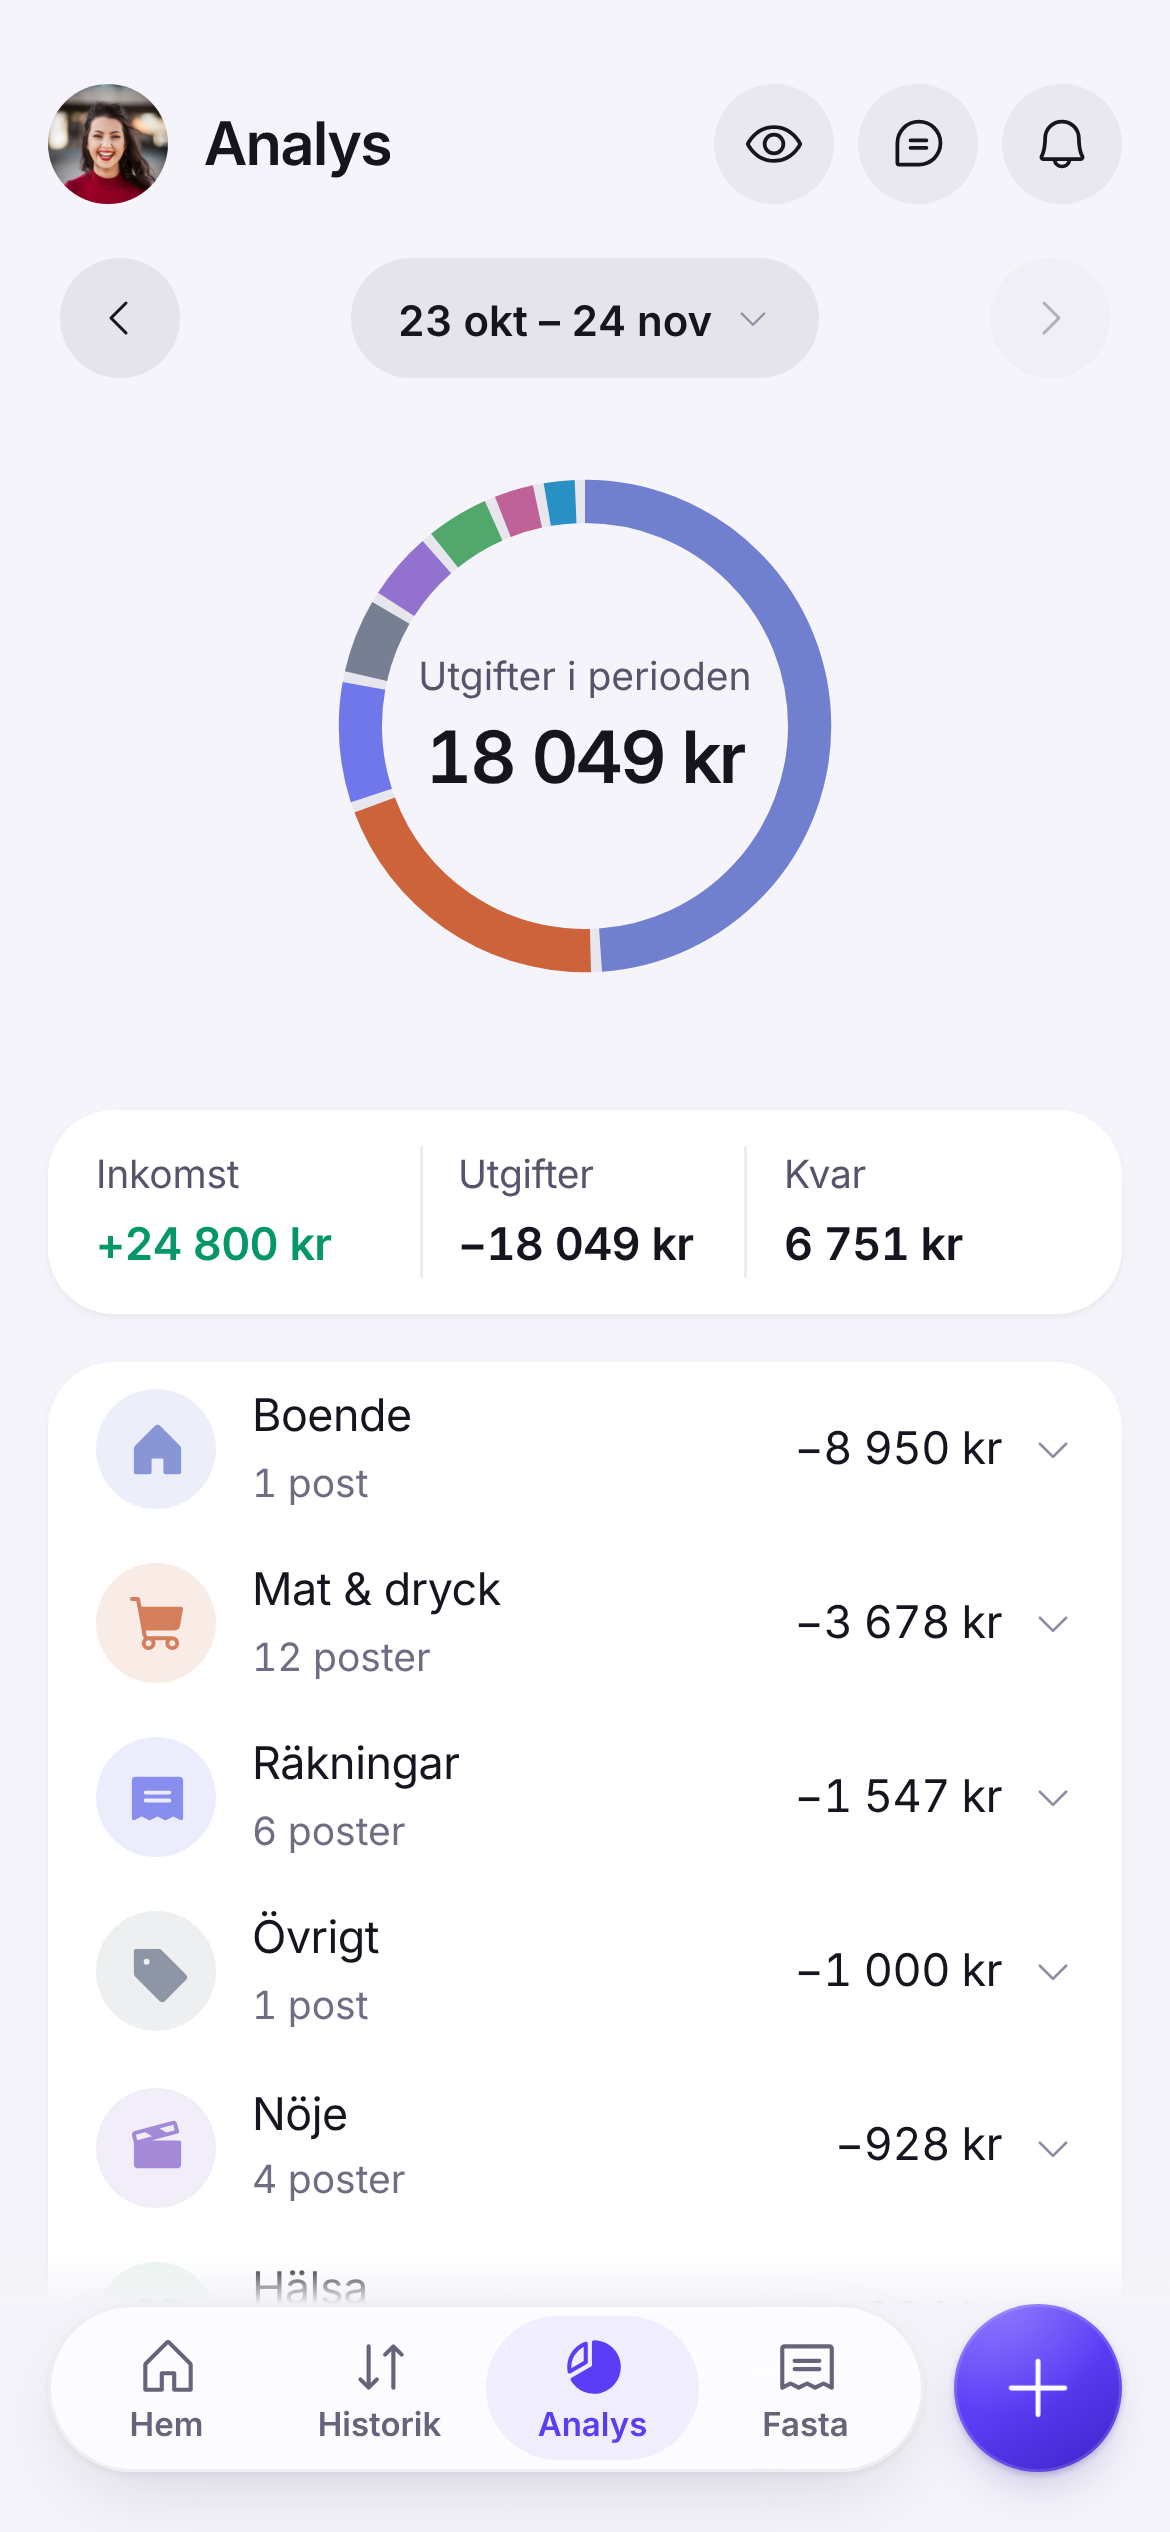
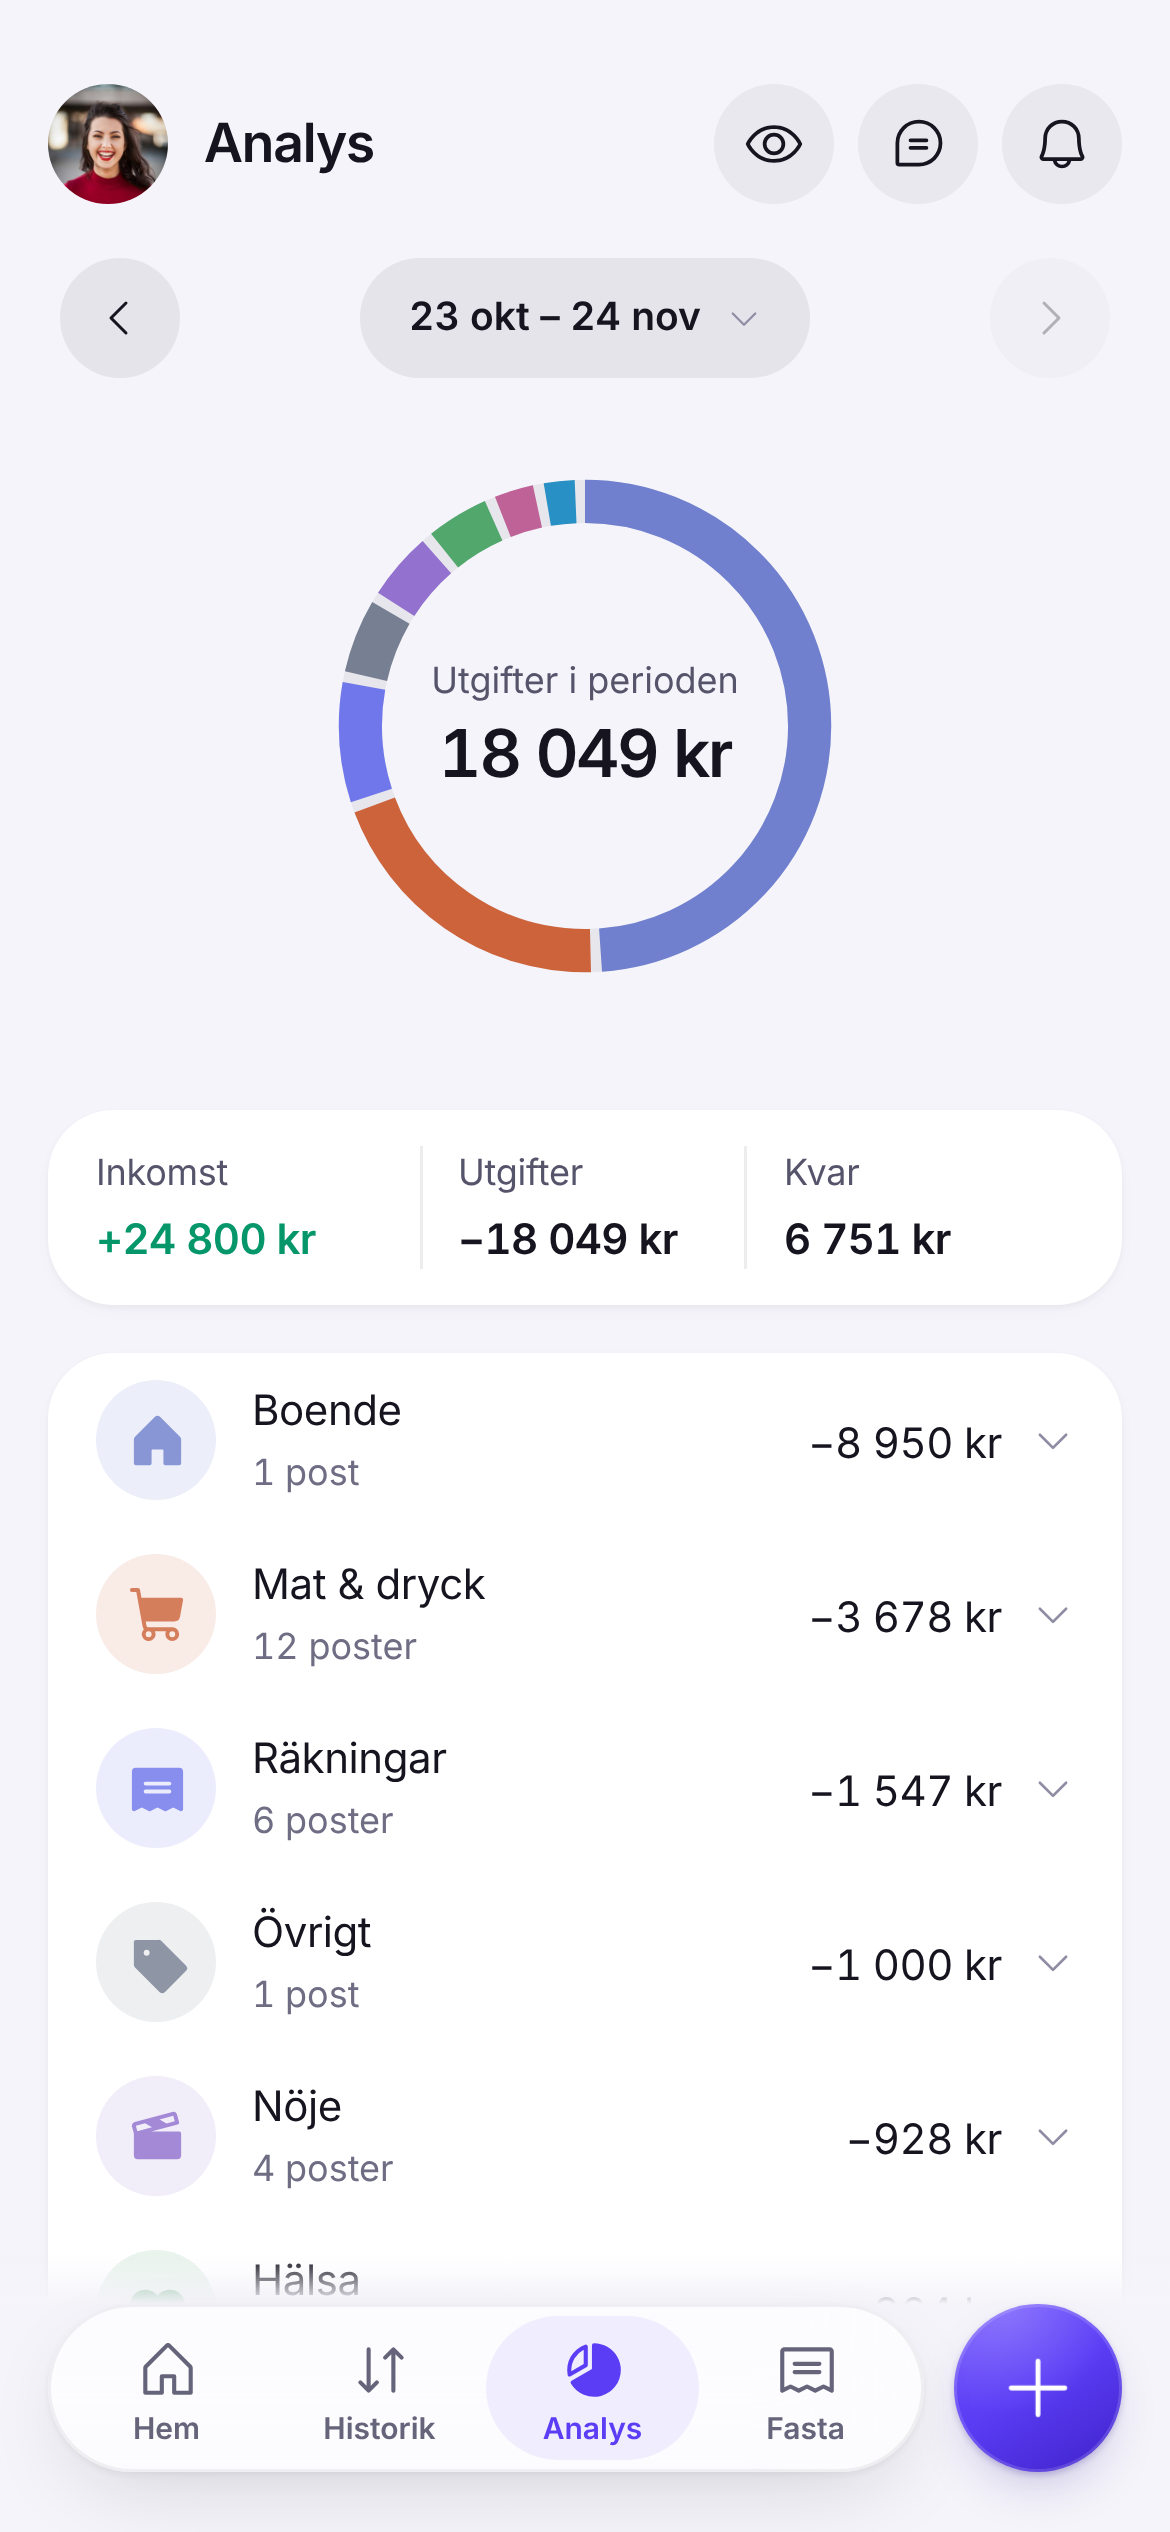
Nya skärmbilder på startsidan med mindre text (v=18)
Claude-Session: https://claude.ai/code/session_01CR7aiKdYh1B1e6r2HDSdML

diff --git a/src/components/WaitlistLanding.tsx b/src/components/WaitlistLanding.tsx
@@ -79,19 +79,19 @@ const PhoneFrame: React.FC<{
 
 const STEPS = [
   {
-    src: '/screens/ekonomi.webp?v=17',
+    src: '/screens/ekonomi.webp?v=18',
     alt: 'Dejz – inkomster och fasta utgifter',
     title: 'Lägg in lön och räkningar',
     text: 'Tar under två minuter. Dejz drar av räkningarna som är kvar före lön.',
   },
   {
-    src: '/screens/historik.webp?v=17',
+    src: '/screens/historik.webp?v=18',
     alt: 'Dejz – historik över köp',
     title: 'Logga köp på sekunder',
     text: 'Tryck på + och säg "Ica 342" – Dejz fyller i resten.',
   },
   {
-    src: '/screens/analys.webp?v=17',
+    src: '/screens/analys.webp?v=18',
     alt: 'Dejz – analys av utgifter per kategori',
     title: 'Se vart pengarna tar vägen',
     text: 'Per kategori, för varje löneperiod – inte per kalendermånad.',
@@ -260,10 +260,10 @@ export const WaitlistLanding: React.FC<WaitlistLandingProps> = ({
           <div className="relative mx-auto w-full max-w-[420px] h-[560px] sm:h-[620px]">
             <div className="absolute inset-x-6 top-16 bottom-6 rounded-full bg-[radial-gradient(closest-side,rgba(91,61,245,0.22),transparent)] blur-2xl" />
             <div className="hidden sm:block absolute right-0 top-12 w-[230px] rotate-[6deg]">
-              <PhoneFrame src="/screens/analys.webp?v=17" alt="" />
+              <PhoneFrame src="/screens/analys.webp?v=18" alt="" />
             </div>
             <div className="absolute left-1/2 -translate-x-1/2 sm:left-2 sm:translate-x-0 top-0 w-[255px] sm:w-[270px]">
-              <PhoneFrame src="/screens/home.webp?v=17" alt="Dejz hemskärm – kvar att spendera" eager />
+              <PhoneFrame src="/screens/home.webp?v=18" alt="Dejz hemskärm – kvar att spendera" eager />
             </div>
           </div>
         </section>
